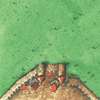
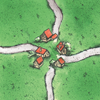
fill more data

diff --git a/data.js b/data.js
@@ -67,11 +67,11 @@ const tileTypes = [
 		count:	1,
 		connect : [river, city, river, road],
 		place: [
-			[0.28, 0.15, farm, [1]],
+			[0.28, 0.15, farm, [1], [2]],
 			[0.85, 0.2, farm, [0,7]],
 			[0.15, 0.5, city, [1]],
 			[0.5, 0.5, road, [3]],
-			[0.3, 0.8, farm, [4]],
+			[0.3, 0.8, farm, [4], [2]],
 			[0.8, 0.8, farm, [5,6]],
 		]
 	},
@@ -101,7 +101,7 @@ const tileTypes = [
 		connect : [city, farm, road, road],
 		place: [
 			[0.5, 0.2, city, [0]],
-			[0.25, 0.7, farm, [2,3,4,7]],
+			[0.25, 0.7, farm, [2,3,4,7], [0]],
 			[0.58, 0.58, road, [2, 3]],
 			[0.8, 0.8, farm, [5,6]],
 		]
@@ -112,7 +112,7 @@ const tileTypes = [
 		place: [
 			[0.85, 0.15, farm, [0,7]],
 			[0.7, 0.3, road, [0, 3]],
-			[0.5, 0.5, farm, [1,6]],
+			[0.5, 0.5, farm, [1,6], [3]],
 			[0.2, 0.8, city, [1, 2]],
 		]
 	},
@@ -130,7 +130,7 @@ const tileTypes = [
 		star : true,
 		place: [
 			[0.2, 0.2, city, [0, 1]],
-			[0.5, 0.5, farm, [4,7]],
+			[0.5, 0.5, farm, [4,7], [0]],
 			[0.7, 0.7, road, [2, 3]],
 			[0.85, 0.85, farm, [5,6]],
 		]
@@ -175,7 +175,7 @@ const tileTypes = [
 		place: [
 			[0.15, 0.15, farm, [1,2]],
 			[0.85, 0.15, farm, [0,7]],
-			[0.5, 0.53, farm, [3,6]],
+			[0.5, 0.53, farm, [3,6], [6]],
 			[0.5, 0.15, road, [0]],
 			[0.2, 0.4, road, [1]],
 			[0.8, 0.43, road, [3]],
@@ -208,12 +208,14 @@ const tileTypes = [
 			[0.7, 0.7, farm, [4,5,6,7], [0]],
 		]
 	},
-	{	// (21)			
-		count:	4,
-		connect : [farm, farm, city, farm],
+	{	// (21)	crossing		
+		count:	0,
+		connect : [road, road, road, road],
 		place: [
-			[0.5, 0.35, farm, [0,1,2,3,6,7], [1]],
-			[0.5, 0.85, city, [2]],
+			[0.5, 0.2, road, [0]],
+			[0.2, 0.5, road, [1]],
+			[0.5, 0.2, road, [3]],
+			[0.5, 0.8, road, [2]],
 		]
 	},
 	{	// (22)			
@@ -222,18 +224,18 @@ const tileTypes = [
 		star : true,
 		place: [
 			[0.5, 0.3, city, [0, 1, 3]],
-			[0.25, 0.85, farm, [4]],
+			[0.25, 0.85, farm, [4], [0]],
 			[0.5, 0.8, road, [2]],
-			[0.75, 0.85, farm, [5]],
+			[0.75, 0.85, farm, [5], [0]],
 		]
 	},
 	{	// (23)			
 		count:	1,
 		connect : [farm, city, farm, city],
 		place: [
-			[0.5, 0.05, farm, [0,1]],
+			[0.5, 0.05, farm, [0,1], [1]],
 			[0.5, 0.4, city, [1, 3]],
-			[0.5, 0.87, farm, [4,5]],
+			[0.5, 0.87, farm, [4,5], [1]],
 		]
 	},
 	{	// (24)			
@@ -242,7 +244,7 @@ const tileTypes = [
 		place: [
 			[0.85, 0.15, farm, [0,7]],
 			[0.65, 0.35, road, [0, 3]],
-			[0.3, 0.5, farm, [1,2,3,6]],
+			[0.3, 0.5, farm, [1,2,3,6], [3]],
 			[0.5, 0.87, city, [2]],
 		]
 	},
@@ -252,7 +254,7 @@ const tileTypes = [
 		star : true,
 		place: [
 			[0.5, 0.3, city, [0, 1, 3]],
-			[0.5, 0.85, farm, [4,5]],
+			[0.5, 0.85, farm, [4,5], [0]],
 		]
 	},
 	{	// (26)			
@@ -297,7 +299,7 @@ const tileTypes = [
 		connect : [river, river, city, city],
 		place: [
 			[0.1, 0.1, farm, [1,2]],
-			[0.5, 0.5, farm, [0,3]],
+			[0.5, 0.5, farm, [0,3], [2]],
 			[0.85, 0.85, city, [2, 3]],
 		]
 	},
@@ -335,16 +337,6 @@ const tileTypes = [
 		place: [
 			[0.3, 0.6, farm, [1,2,3,4,5,6]],
 			[0.9, 0.1, farm, [0,7]],
-		]
-	},
-	{	// (35)	crossing		
-		count:	0,
-		connect : [road, road, road, road],
-		place: [
-			[0.5, 0.2, road, [0]],
-			[0.2, 0.5, road, [1]],
-			[0.5, 0.2, road, [3]],
-			[0.5, 0.8, road, [2]],
 		]
 	},
 ]

diff --git a/carc.js b/carc.js
@@ -440,7 +440,7 @@ function touchstart(ex, ey) {
 		}
 	}
 
-	if(ex < 650 && ey < 650) {
+	if(ex < 850 && ey < 850) {
 		dragX = ex - offsetX
 		dragY = ey - offsetY
 	}
